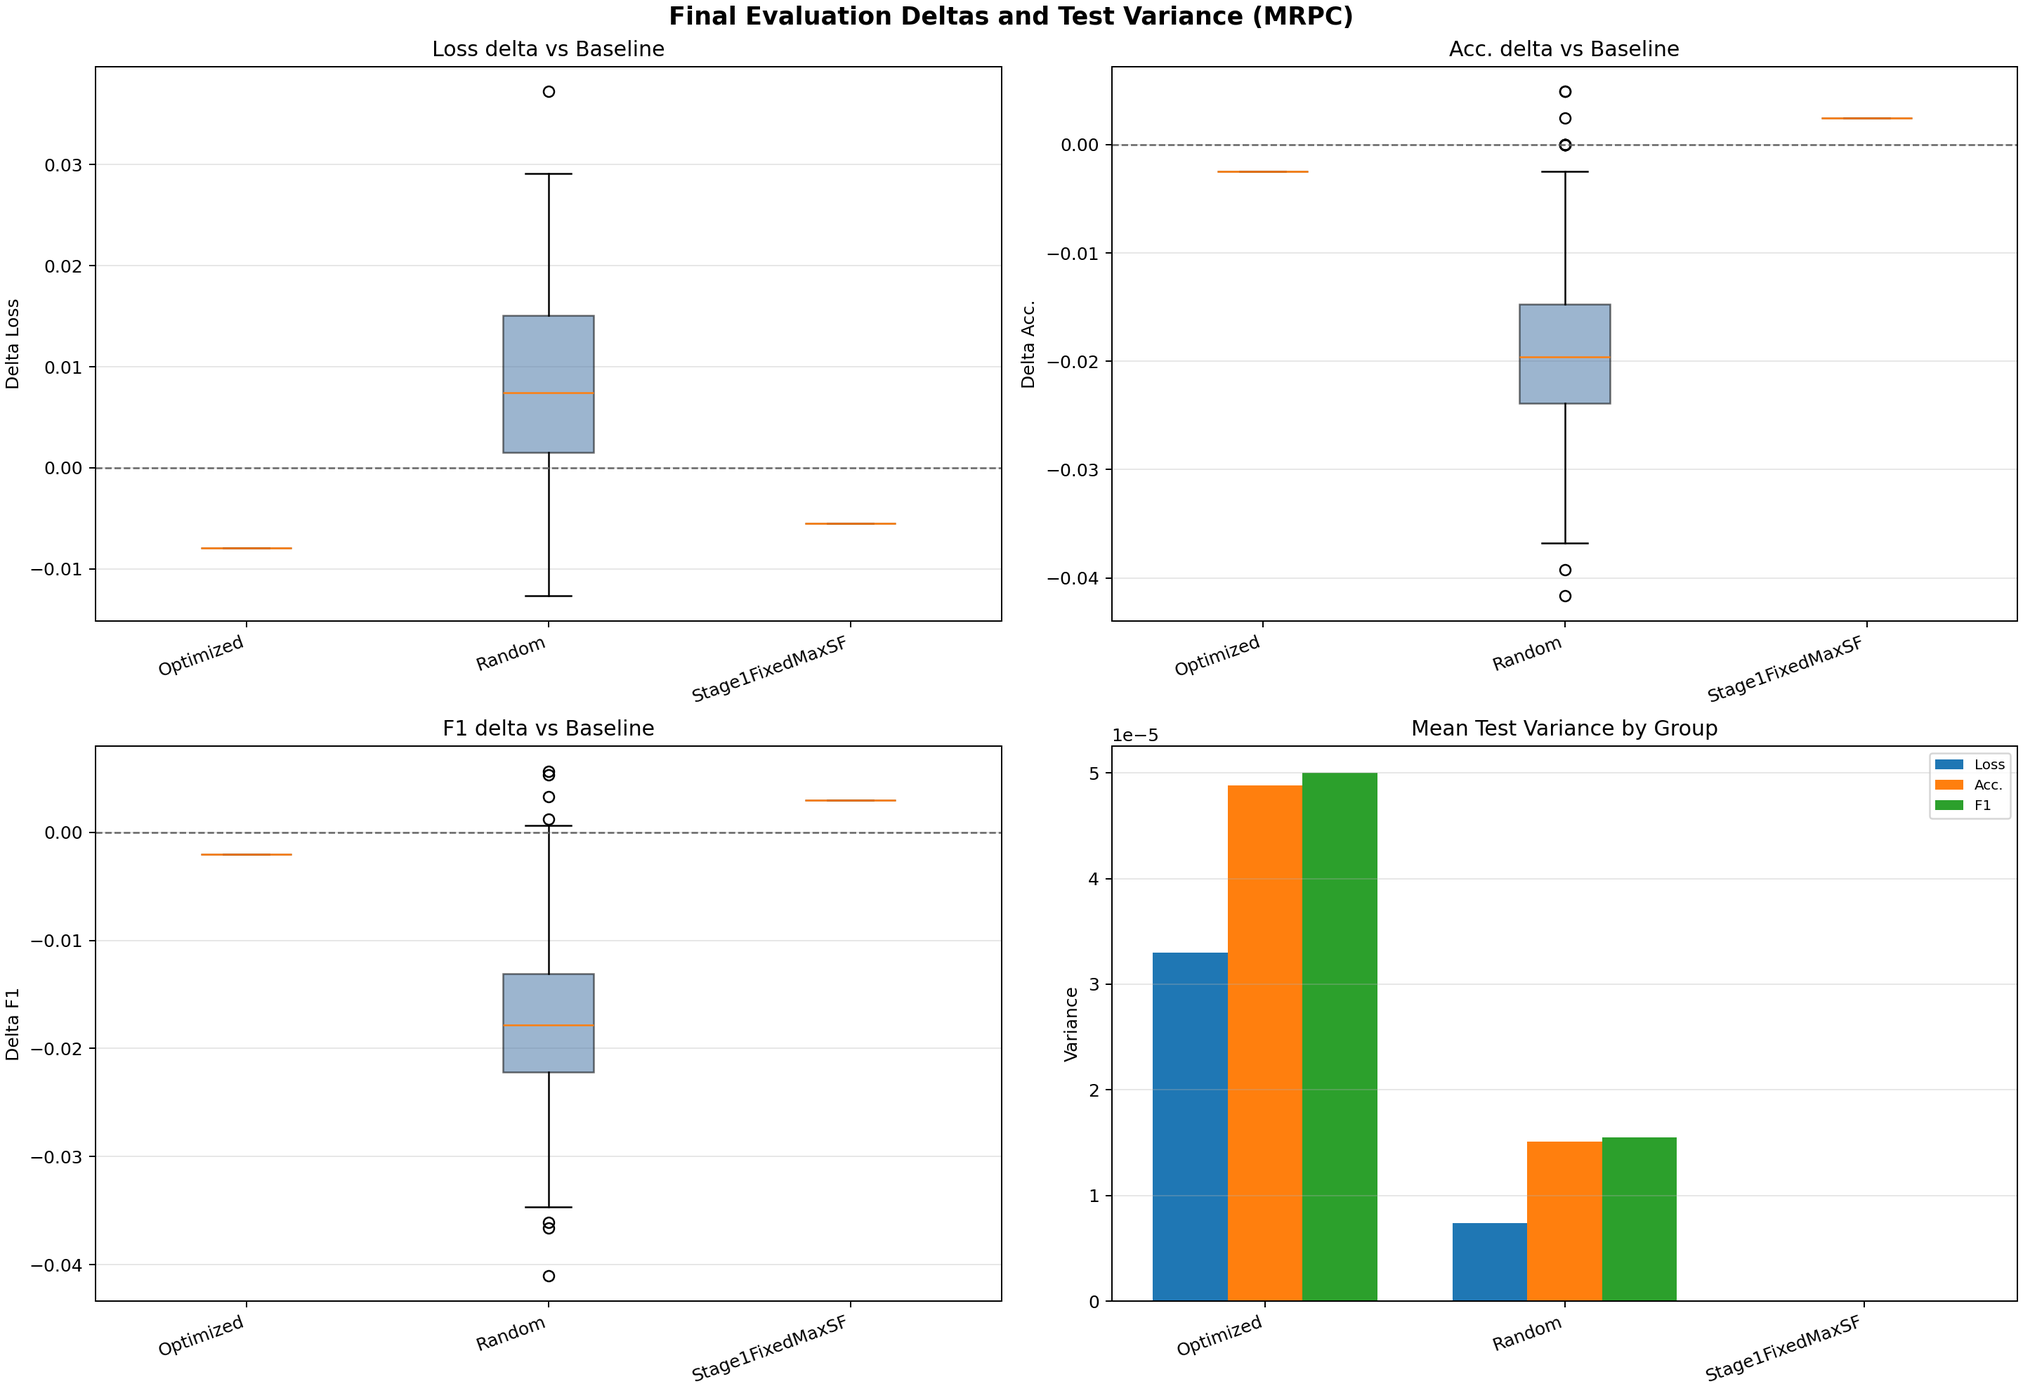
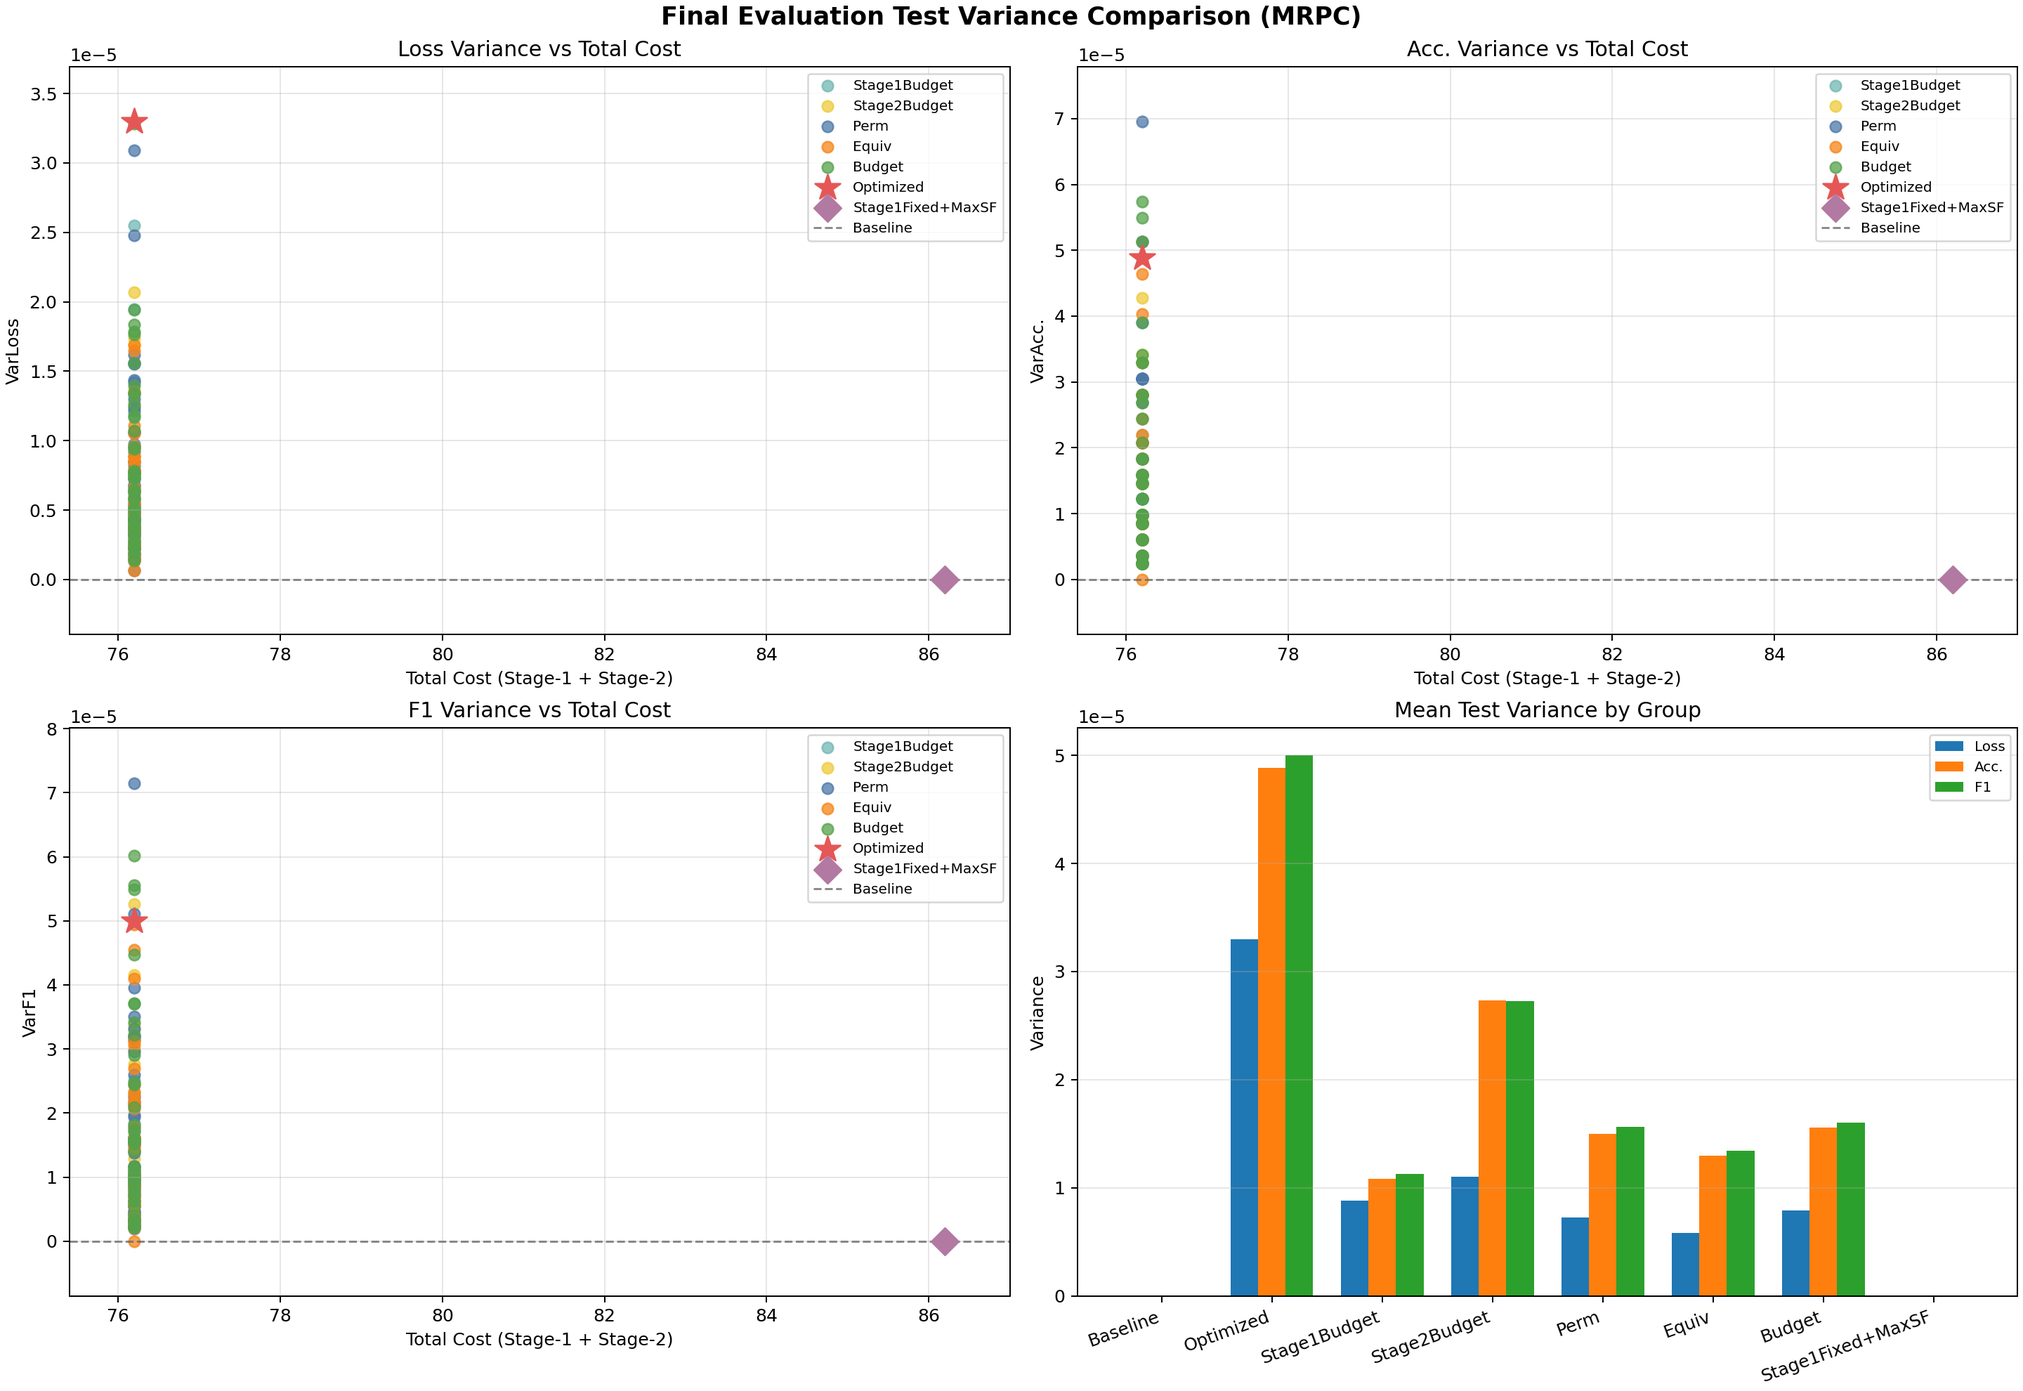
1

diff --git a/final_evaluation_module.py b/final_evaluation_module.py
@@ -1129,8 +1129,17 @@ class UnifiedFinalEvaluationModule:
             result["total_cost"] = self._combined_total_cost(result)
             result["loss_delta_vs_baseline"] = float(result["loss"] - base_loss)
             result["p_delta_vs_baseline"] = float(result["p"] - base_p)
+            result["loss_delta_pct_vs_baseline"] = self._relative_delta_percent(
+                result["loss"], base_loss
+            )
+            result["p_delta_pct_vs_baseline"] = self._relative_delta_percent(
+                result["p"], base_p
+            )
             if num_metrics > 1:
                 result["s_delta_vs_baseline"] = float(result["s"] - base_s)
+                result["s_delta_pct_vs_baseline"] = self._relative_delta_percent(
+                    result["s"], base_s
+                )
             for metric_key in ("loss", "p", "s"):
                 std_key = f"{metric_key}_std"
                 if std_key in result:
@@ -1166,6 +1175,29 @@ class UnifiedFinalEvaluationModule:
             if not np.isfinite(float(value)):
                 return f"{'N/A':<{width}}"
             return f"{float(value):<{width}.2e}"
+        except Exception:
+            return f"{'N/A':<{width}}"
+
+    @staticmethod
+    def _relative_delta_percent(value, baseline):
+        try:
+            baseline = float(baseline)
+            value = float(value)
+            if not np.isfinite(value) or not np.isfinite(baseline) or abs(baseline) <= 1e-12:
+                return None
+            return float((value - baseline) / baseline * 100.0)
+        except Exception:
+            return None
+
+    @staticmethod
+    def _format_percent(value, width=8, precision=2):
+        if value is None:
+            return f"{'N/A':<{width}}"
+        try:
+            if not np.isfinite(float(value)):
+                return f"{'N/A':<{width}}"
+            text = f"{float(value):.{precision}f}%"
+            return f"{text:<{width}}"
         except Exception:
             return f"{'N/A':<{width}}"
 
@@ -1314,7 +1346,7 @@ class UnifiedFinalEvaluationModule:
             header = (
                 f"{'Method':<25} | {'OK':<3} | "
                 f"{'Loss':<8} {metric_short_names[0]:<8} | "
-                f"{'dLoss':<8} {('d' + metric_short_names[0]):<8} | "
+                f"{'dLoss%':<8} {('d' + metric_short_names[0] + '%'):<8} | "
                 f"{'VarLoss':<10} {('Var' + metric_short_names[0]):<10} | "
                 f"{'TotalC':<8}"
             )
@@ -1322,7 +1354,7 @@ class UnifiedFinalEvaluationModule:
             header = (
                 f"{'Method':<25} | {'OK':<3} | "
                 f"{'Loss':<8} {metric_short_names[0]:<8} {metric_short_names[1]:<8} | "
-                f"{'dLoss':<8} {('d' + metric_short_names[0]):<8} {('d' + metric_short_names[1]):<8} | "
+                f"{'dLoss%':<8} {('d' + metric_short_names[0] + '%'):<8} {('d' + metric_short_names[1] + '%'):<8} | "
                 f"{'VarLoss':<10} {('Var' + metric_short_names[0]):<10} {('Var' + metric_short_names[1]):<10} | "
                 f"{'TotalC':<8}"
             )
@@ -1340,11 +1372,11 @@ class UnifiedFinalEvaluationModule:
     def _format_row(self, result, num_metrics):
         ok = "Y" if result["feasible"] else "N"
         total_cost = self._format_fixed(result.get("total_cost"), width=8, precision=2)
-        loss_delta = self._format_fixed(
-            result.get("loss_delta_vs_baseline"), width=8, precision=4
+        loss_delta = self._format_percent(
+            result.get("loss_delta_pct_vs_baseline"), width=8, precision=2
         )
-        p_delta = self._format_fixed(
-            result.get("p_delta_vs_baseline"), width=8, precision=4
+        p_delta = self._format_percent(
+            result.get("p_delta_pct_vs_baseline"), width=8, precision=2
         )
         loss_var = self._format_sci(result.get("loss_var"), width=10)
         p_var = self._format_sci(result.get("p_var"), width=10)
@@ -1356,8 +1388,8 @@ class UnifiedFinalEvaluationModule:
                 f"{loss_var} {p_var} | "
                 f"{total_cost}"
             )
-        s_delta = self._format_fixed(
-            result.get("s_delta_vs_baseline"), width=8, precision=4
+        s_delta = self._format_percent(
+            result.get("s_delta_pct_vs_baseline"), width=8, precision=2
         )
         s_var = self._format_sci(result.get("s_var"), width=10)
         return (
@@ -1612,86 +1644,125 @@ class UnifiedFinalEvaluationModule:
             import matplotlib.pyplot as plt
 
             family_colors = self._family_colors()
-            grouped: Dict[str, list] = {
-                "Optimized": [optimized],
-                "Stage1FixedMaxSF": [stage1_fixed_max],
-            }
-            if random_results:
-                grouped["Random"] = list(random_results)
-            families = [
-                family
-                for family in ("Optimized", "Random", "Stage1FixedMaxSF")
-                if family in grouped
+            random_grouped: Dict[str, list] = {}
+            for result in random_results:
+                random_grouped.setdefault(result["family"], []).append(result)
+            random_families = self._ordered_families(random_grouped)
+
+            special_markers = [
+                ("Optimized", "Optimized", optimized, "*", 230, "#E45756"),
+                (
+                    "Stage1FixedMaxSF",
+                    "Stage1Fixed+MaxSF",
+                    stage1_fixed_max,
+                    "D",
+                    120,
+                    "#B279A2",
+                ),
             ]
 
             fig, axes = plt.subplots(2, 2, figsize=(16, 11), constrained_layout=True)
             fig.suptitle(
-                f"Final Evaluation Deltas and Test Variance ({self.evaluator.dataset_key.upper()})",
+                f"Final Evaluation Test Variance Comparison ({self.evaluator.dataset_key.upper()})",
                 fontsize=14,
                 fontweight="bold",
             )
 
-            delta_panels = [
-                ("Loss delta vs Baseline", "loss_delta_vs_baseline", "Delta Loss"),
+            variance_panels = [
+                ("Loss Variance vs Total Cost", "loss_var", "VarLoss"),
                 (
-                    f"{metric_short_names[0]} delta vs Baseline",
-                    "p_delta_vs_baseline",
-                    f"Delta {metric_short_names[0]}",
-                ),
-                (
-                    f"{metric_short_names[1]} delta vs Baseline"
-                    if num_metrics > 1
-                    else "Time delta vs Baseline",
-                    "s_delta_vs_baseline" if num_metrics > 1 else "time_delta_vs_baseline",
-                    f"Delta {metric_short_names[1]}" if num_metrics > 1 else "Delta Time (ms)",
+                    f"{metric_short_names[0]} Variance vs Total Cost",
+                    "p_var",
+                    f"Var{metric_short_names[0]}",
                 ),
             ]
+            if num_metrics > 1:
+                variance_panels.append(
+                    (
+                        f"{metric_short_names[1]} Variance vs Total Cost",
+                        "s_var",
+                        f"Var{metric_short_names[1]}",
+                    )
+                )
+            else:
+                variance_panels.append(("Time Variance vs Total Cost", "time_var", "VarTime"))
 
-            if num_metrics == 1:
-                base_time = float(baseline.get("time_ms", 0.0))
-                for result in [optimized, stage1_fixed_max] + list(random_results):
-                    result["time_delta_vs_baseline"] = float(result.get("time_ms", 0.0) - base_time)
-
-            for ax, (title, key, ylabel) in zip(list(axes.flat)[:3], delta_panels):
-                data = []
-                labels = []
-                colors = []
-                for family in families:
-                    vals = [
-                        float(item[key])
-                        for item in grouped[family]
-                        if key in item and np.isfinite(float(item[key]))
+            for ax, (title, key, ylabel) in zip(list(axes.flat)[:3], variance_panels):
+                panel_xs = []
+                has_data = False
+                for family in random_families:
+                    items = random_grouped[family]
+                    xs = [
+                        float(item.get("total_cost"))
+                        for item in items
+                        if item.get("total_cost") is not None
+                        and key in item
+                        and item.get(key) is not None
+                        and np.isfinite(float(item[key]))
                     ]
-                    if not vals:
+                    ys = [
+                        float(item[key])
+                        for item in items
+                        if item.get("total_cost") is not None
+                        and key in item
+                        and item.get(key) is not None
+                        and np.isfinite(float(item[key]))
+                    ]
+                    if xs:
+                        panel_xs.extend(xs)
+                        has_data = True
+                        ax.scatter(
+                            xs,
+                            ys,
+                            s=40,
+                            alpha=0.75,
+                            label=family,
+                            color=family_colors.get(family, "#999999"),
+                        )
+                for family, label, result, marker, size, color in special_markers:
+                    value = result.get(key)
+                    cost = result.get("total_cost")
+                    if (
+                        value is None
+                        or cost is None
+                        or not np.isfinite(float(value))
+                        or not np.isfinite(float(cost))
+                    ):
                         continue
-                    data.append(vals)
-                    labels.append(family)
-                    colors.append(family_colors.get(family, "#999999"))
-                if data:
-                    try:
-                        box = ax.boxplot(
-                            data,
-                            tick_labels=labels,
-                            patch_artist=True,
-                            showfliers=True,
-                        )
-                    except TypeError:
-                        box = ax.boxplot(
-                            data,
-                            labels=labels,
-                            patch_artist=True,
-                            showfliers=True,
-                        )
-                    for patch, color in zip(box["boxes"], colors):
-                        patch.set_facecolor(color)
-                        patch.set_alpha(0.55)
-                    ax.axhline(0.0, color="#666666", linestyle="--", linewidth=1.0)
-                    ax.set_xticklabels(labels, rotation=20, ha="right")
-                else:
-                    ax.text(0.5, 0.5, "No delta data", ha="center", va="center")
+                    panel_xs.append(float(cost))
+                    has_data = True
+                    ax.scatter(
+                        float(cost),
+                        float(value),
+                        marker=marker,
+                        s=size,
+                        color=color,
+                        label=label,
+                        zorder=5 if family == "Optimized" else 4,
+                    )
+                baseline_value = baseline.get(key)
+                if baseline_value is not None and np.isfinite(float(baseline_value)):
+                    ax.axhline(
+                        float(baseline_value),
+                        color="#666666",
+                        linestyle="--",
+                        linewidth=1.2,
+                        alpha=0.75,
+                        label="Baseline",
+                    )
+                if not has_data:
+                    ax.text(0.5, 0.5, "No variance data", ha="center", va="center")
                 ax.set_title(title)
                 ax.set_ylabel(ylabel)
-                ax.grid(True, axis="y", alpha=0.3)
+                ax.set_xlabel("Total Cost (Stage-1 + Stage-2)")
+                ax.grid(True, alpha=0.3)
+                self._set_numeric_axis_limits(ax, panel_xs)
+                ax.margins(x=0.08, y=0.12)
+                try:
+                    ax.ticklabel_format(axis="y", style="sci", scilimits=(-2, 2))
+                except Exception:
+                    pass
+                ax.legend(loc="best", fontsize=8)
 
             ax = axes[1, 1]
             variance_specs = [
@@ -1701,15 +1772,22 @@ class UnifiedFinalEvaluationModule:
             if num_metrics > 1:
                 variance_specs.append((metric_short_names[1], "s_var"))
 
+            bar_groups = [("Baseline", [baseline]), ("Optimized", [optimized])]
+            for family in random_families:
+                bar_groups.append((family, random_grouped[family]))
+            bar_groups.append(("Stage1Fixed+MaxSF", [stage1_fixed_max]))
+
             variance_rows = []
-            for family in families:
+            for family, items in bar_groups:
                 row = []
                 has_any = False
                 for _, key in variance_specs:
                     vals = [
                         float(item[key])
-                        for item in grouped[family]
-                        if key in item and np.isfinite(float(item[key]))
+                        for item in items
+                        if key in item
+                        and item.get(key) is not None
+                        and np.isfinite(float(item[key]))
                     ]
                     if vals:
                         row.append(float(np.mean(vals)))
@@ -1735,28 +1813,14 @@ class UnifiedFinalEvaluationModule:
                 ax.set_title("Mean Test Variance by Group")
                 ax.set_ylabel("Variance")
                 ax.grid(True, axis="y", alpha=0.3)
+                try:
+                    ax.ticklabel_format(axis="y", style="sci", scilimits=(-2, 2))
+                except Exception:
+                    pass
                 ax.legend(loc="best", fontsize=8)
             else:
-                metric_keys = [("Loss", "loss"), (metric_short_names[0], "p")]
-                if num_metrics > 1:
-                    metric_keys.append((metric_short_names[1], "s"))
-                x = np.arange(len(families))
-                width = min(0.25, 0.75 / max(1, len(metric_keys)))
-                for idx, (metric_label, key) in enumerate(metric_keys):
-                    values = [
-                        float(np.var([item[key] for item in grouped[family]]))
-                        if len(grouped[family]) > 1
-                        else 0.0
-                        for family in families
-                    ]
-                    offset = (idx - (len(metric_keys) - 1) / 2.0) * width
-                    ax.bar(x + offset, values, width=width, label=metric_label)
-                ax.set_xticks(x)
-                ax.set_xticklabels(families, rotation=20, ha="right")
-                ax.set_title("Group Result Variance (test variance unavailable)")
-                ax.set_ylabel("Variance across sampled configs")
-                ax.grid(True, axis="y", alpha=0.3)
-                ax.legend(loc="best", fontsize=8)
+                ax.text(0.5, 0.5, "No variance data", ha="center", va="center")
+                ax.set_title("Mean Test Variance by Group")
 
             plot_path = os.path.join(
                 self.results_dir,

diff --git a/tests/test_unified_final_eval_partial_search.py b/tests/test_unified_final_eval_partial_search.py
@@ -270,6 +270,46 @@ class UnifiedFinalEvalPartialSearchTests(unittest.TestCase):
         self.assertIsNotNone(sampled)
         self.assertEqual(module._stage2_config_cost_key(sampled), target_key)
 
+    def test_performance_table_formats_delta_columns_as_percent(self):
+        module, cfg_path, _ = self._build_module_and_config()
+        self.addCleanup(lambda: cfg_path.unlink(missing_ok=True))
+
+        baseline = {
+            "name": "Baseline",
+            "family": "Baseline",
+            "loss": 1.0,
+            "p": 0.5,
+            "s": 0.25,
+            "stage1_tot_c": 1.0,
+            "stage2_tot_c": 0.0,
+            "feasible": True,
+            "loss_std": 0.0,
+            "p_std": 0.0,
+            "s_std": 0.0,
+            "show_cost_as_na": True,
+        }
+        optimized = {
+            "name": "Optimized",
+            "family": "Optimized",
+            "loss": 0.75,
+            "p": 0.55,
+            "s": 0.20,
+            "stage1_tot_c": 2.0,
+            "stage2_tot_c": 3.0,
+            "feasible": True,
+            "loss_std": 0.01,
+            "p_std": 0.02,
+            "s_std": 0.03,
+        }
+
+        module._attach_relative_metrics(baseline, [baseline, optimized], num_metrics=2)
+        row = module._format_row(optimized, num_metrics=2)
+
+        self.assertIn("-25.00%", row)
+        self.assertIn("10.00%", row)
+        self.assertIn("-20.00%", row)
+        self.assertNotIn("-0.2500", row)
+
     def test_final_eval_baseline_is_single_eval_when_noisy_groups_repeat(self):
         from final_evaluation_module import (
             NOISE_SCALING_FACTOR_KEYS,
